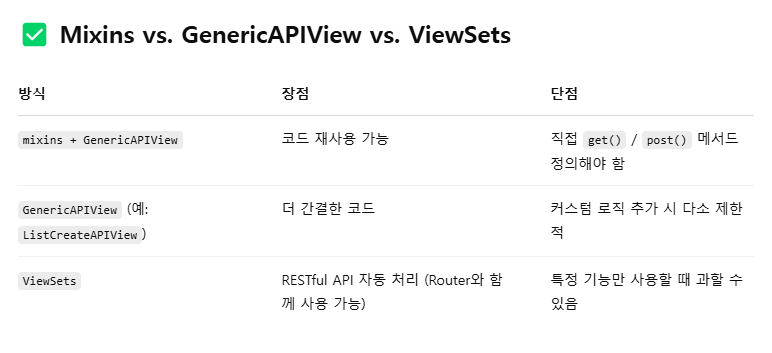
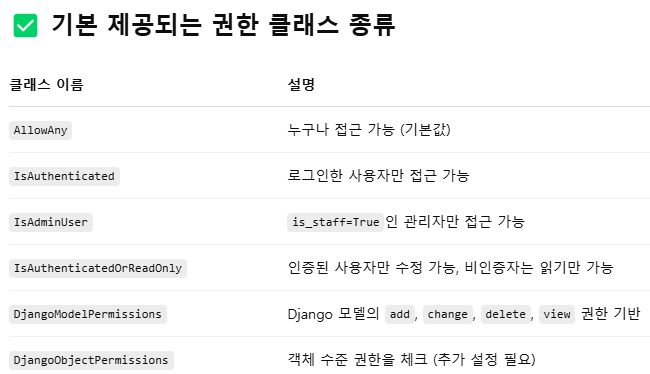
commit

diff --git a/api/views/category_views.py b/api/views/category_views.py
@@ -16,66 +16,151 @@ from rest_framework.mixins import (
     UpdateModelMixin,
 )
 from rest_framework.generics import GenericAPIView
+from rest_framework.generics import (
+    GenericAPIView,
+    ListCreateAPIView,
+    RetrieveUpdateDestroyAPIView,
+)
+
+from rest_framework.exceptions import ValidationError, PermissionDenied
+from rest_framework.permissions import IsAuthenticated, IsAdminUser
+
+# # dev_31
+# class CategoriesAPI(APIView):
+#     def get(self, request):
+#         categories = Category.objects.all()
+#         serializer = CategorySerializer(categories, many=True)
+#         return Response(serializer.data)
+
+#     def post(self, request):
+#         serializer = CategorySerializer(data=request.data)
+#         serializer.is_valid(raise_exception=True)
+#         serializer.save()
+#         return Response(serializer.data)
 
 
-# dev_31
-class CategoriesAPI(APIView):
-    def get(self, request):
-        categories = Category.objects.all()
-        serializer = CategorySerializer(categories, many=True)
-        return Response(serializer.data)
+# class CategoryAPI(APIView):
+#     def get(self, request, pk):
+#         category = get_object_or_404(Category, id=pk)
+#         serializer = CategorySerializer(category)
+#         return Response(serializer.data)
 
-    def post(self, request):
-        serializer = CategorySerializer(data=request.data)
-        serializer.is_valid(raise_exception=True)
-        serializer.save()
-        return Response(serializer.data)
+#     def put(self, request, pk):
+#         category = get_object_or_404(Category, id=pk)
+#         serializer = CategorySerializer(category, data=request.data)
+#         serializer.is_valid(raise_exception=True)
+#         serializer.save()
+#         return Response(serializer.data)
 
-
-class CategoryAPI(APIView):
-    def get(self, request, pk):
-        category = get_object_or_404(Category, id=pk)
-        serializer = CategorySerializer(category)
-        return Response(serializer.data)
-
-    def put(self, request, pk):
-        category = get_object_or_404(Category, id=pk)
-        serializer = CategorySerializer(category, data=request.data)
-        serializer.is_valid(raise_exception=True)
-        serializer.save()
-        return Response(serializer.data)
-
-    def delete(self, request, pk):
-        category = get_object_or_404(Category, id=pk)
-        category.delete()
-        return Response(status=status.HTTP_204_NO_CONTENT)
+#     def delete(self, request, pk):
+#         category = get_object_or_404(Category, id=pk)
+#         category.delete()
+#         return Response(status=status.HTTP_204_NO_CONTENT)
 
 
-# dev_33
-class CategoriesMixins(
-    ListModelMixin, CreateModelMixin, DestroyModelMixin, GenericAPIView
-):
+# # dev_33
+# class CategoriesMixins(
+#     ListModelMixin, CreateModelMixin, DestroyModelMixin, GenericAPIView
+# ):
+#     queryset = Category.objects.all()
+#     serializer_class = CategorySerializer
+
+#     def get(self, request, *args, **kwargs):
+#         return self.list(request)
+
+#     def post(self, request, *args, **kwargs):
+#         return self.create(request)
+
+
+# class CategoryMixins(
+#     RetrieveModelMixin, UpdateModelMixin, DestroyModelMixin, GenericAPIView
+# ):
+#     queryset = Category.objects.all()
+#     serializer_class = CategorySerializer
+
+#     def get(self, request, *args, **kwargs):
+#         return self.retrieve(request, *args, **kwargs)
+
+#     def put(self, request, *args, **kwargs):
+#         return self.update(request, *args, **kwargs)
+
+#     def delete(self, request, *args, **kwargs):
+#         return self.destroy(request, *args, **kwargs)
+
+
+# dev_34
+# class CategoriesAPI(ListCreateAPIView):
+#     queryset = Category.objects.all()
+#     serializer_class = CategorySerializer
+
+
+# class CategoryAPI(RetrieveUpdateDestroyAPIView):
+#     queryset = Category.objects.all()
+#     serializer_class = CategorySerializer
+
+
+# http://127.0.0.1:8000/api/categories/
+class CategoriesAPI(ListCreateAPIView):
+    queryset = Category.objects.all()
+    serializer_class = CategorySerializer
+    permission_classes = [IsAuthenticated]
+
+    # POST 요청 커스터마이징
+    def create(self, request, *args, **kwargs):
+        name = request.data.get("name")
+
+        # 같은 이름의 카테고리가 이미 존재할 경우 오류
+        if Category.objects.filter(name=name).exists():
+            raise ValidationError(
+                {"message": "이미 같은 이름의 카테고리가 존재합니다."}
+            )
+
+        response = super().create(request, *args, **kwargs)
+        response.data = {
+            "message": "카테고리가 성공적으로 생성되었습니다.",
+            "category": response.data,
+        }
+        return response
+
+
+# generics.RetrieveUpdateDestroyAPIView : 조회/수정/삭제
+# http://127.0.0.1:8000/api/category/4/
+class CategoryAPI(RetrieveUpdateDestroyAPIView):
     queryset = Category.objects.all()
     serializer_class = CategorySerializer
 
-    def get(self, request, *args, **kwargs):
-        return self.list(request)
+    # 조회 시 로그 찍기
+    def retrieve(self, request, *args, **kwargs):
+        instance = self.get_object()
+        print(f"[조회] 카테고리 ID {instance.id} - {instance.name}")
+        return super().retrieve(request, *args, **kwargs)
 
-    def post(self, request, *args, **kwargs):
-        return self.create(request)
+    # 수정 시 로깅 및 응답 커스터마이징
+    def update(self, request, *args, **kwargs):
+        instance = self.get_object()
+        print(f"[수정] 카테고리 '{instance.name}' → '{request.data.get('name')}'")
+        response = super().update(request, *args, **kwargs)
+        response.data = {
+            "message": "카테고리가 수정되었습니다.",
+            "category": response.data,
+        }
+        return response
 
+    # HTTP DELETE 요청 →
+    # → destroy() 실행 →
+    # → perform_destroy(instance) 호출 →
+    # → 객체 삭제
 
-class CategoryMixins(
-    RetrieveModelMixin, UpdateModelMixin, DestroyModelMixin, GenericAPIView
-):
-    queryset = Category.objects.all()
-    serializer_class = CategorySerializer
+    # 삭제 전에 체크: 이름이 "고정"인 경우 삭제 금지
+    def perform_destroy(self, instance):
+        if instance.name == "고정":
+            raise PermissionDenied("이 카테고리는 삭제할 수 없습니다.")
+        print(f"[삭제] 카테고리 {instance.name} 삭제됨")
+        instance.delete()
 
-    def get(self, request, *args, **kwargs):
-        return self.retrieve(request, *args, **kwargs)
-
-    def put(self, request, *args, **kwargs):
-        return self.update(request, *args, **kwargs)
-
-    def delete(self, request, *args, **kwargs):
-        return self.destroy(request, *args, **kwargs)
+    # 삭제 응답 커스터마이징
+    def destroy(self, request, *args, **kwargs):
+        self.perform_destroy(self.get_object())
+        return Response(
+            {"message": "카테고리가 삭제되었습니다."}, status=status.HTTP_204_NO_CONTENT
+        )

diff --git a/api/urls.py b/api/urls.py
@@ -21,6 +21,8 @@ urlpatterns = [
     # path("categories/", category_views.CategoriesAPI.as_view()),  # dev_31
     # path("category/<int:pk>/", category_views.CategoryAPI.as_view()),  # dev_31
     # dev_33
-    path("categories/", category_views.CategoriesMixins.as_view()),  # dev_33
-    path("category/<int:pk>/", category_views.CategoryMixins.as_view()),  # dev_33
+    # path("categories/", category_views.CategoriesMixins.as_view()),  # dev_33
+    # path("category/<int:pk>/", category_views.CategoryMixins.as_view()),  # dev_33
+    path("categories/", category_views.CategoriesAPI.as_view()),  # dev_34
+    path("category/<int:pk>/", category_views.CategoryAPI.as_view()),  # dev_34
 ]

diff --git a/단원설명.md b/단원설명.md
@@ -1,4 +1,4 @@
-1. https://chatgpt.com/c/67ee881f-302c-8007-9d9a-51192e87c6f3
-
-2. https://velog.io/@kungsboy/62.Django%EC%9E%A5%EA%B3%A0-ecommerce-%ED%94%84%EB%A1%9C%EC%A0%9D%ED%8A%B8-DRF-Mixins-%EB%A5%BC-%EC%9D%B4%EC%9A%A9%ED%95%9C-%EC%98%88%EC%A0%9CCRUD
+1. 권한설정 옵션
 ![alt text](image.png)
+
+2.https://chatgpt.com/c/67ee881f-302c-8007-9d9a-51192e87c6f3
